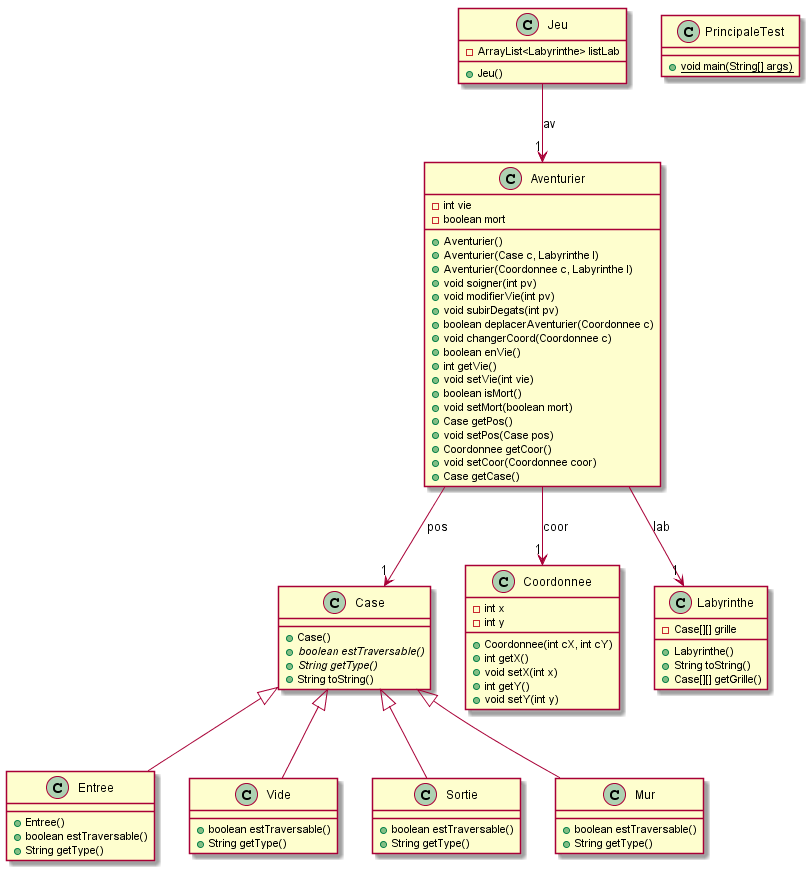
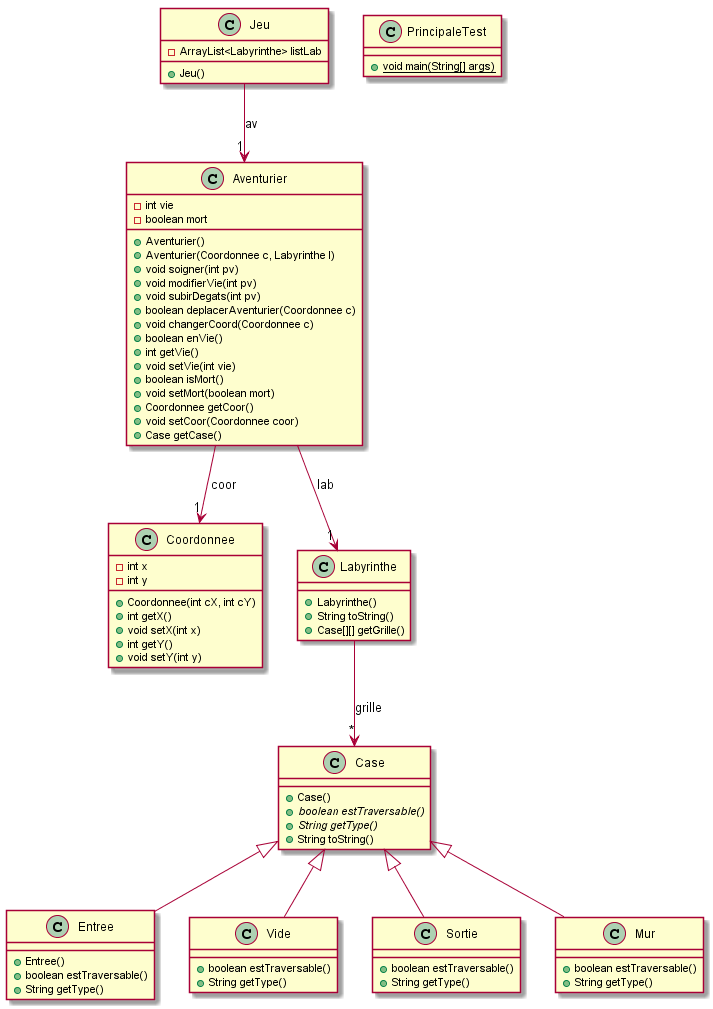
Correction des diagrammes de classes

diff --git a/projet_zeldiablo/src/zeldiablo/Aventurier.java b/projet_zeldiablo/src/zeldiablo/Aventurier.java
@@ -3,7 +3,6 @@ package zeldiablo;
 public class Aventurier {
 	private int vie;
 	private boolean mort;
-	private Case pos; // case sur laquelle se trouve l'aventurier
 	private Coordonnee coor; //coordonnee de l'aventurier
 	private Labyrinthe lab;
 
@@ -11,11 +10,7 @@ public class Aventurier {
 		vie = 100;
 		mort = false;
 	}
-	public Aventurier(Case c, Labyrinthe l){
-		vie = 100;
-		mort = false;
-		pos = c;
-	}
+
 	public Aventurier(Coordonnee c, Labyrinthe l){
 		vie = 100;
 		mort = false;
@@ -88,12 +83,6 @@ public class Aventurier {
 
 	public void setMort(boolean mort) {
 		this.mort = mort;
-	}
-	public Case getPos() {
-		return pos;
-	}
-	public void setPos(Case pos) {
-		this.pos = pos;
 	}
 	public Coordonnee getCoor() {
 		return coor;
